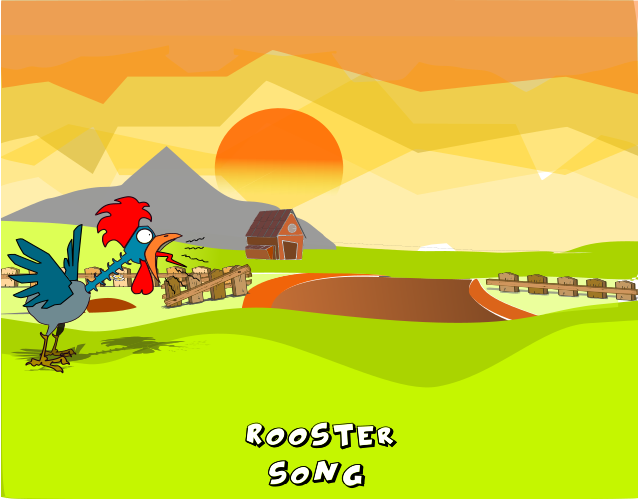
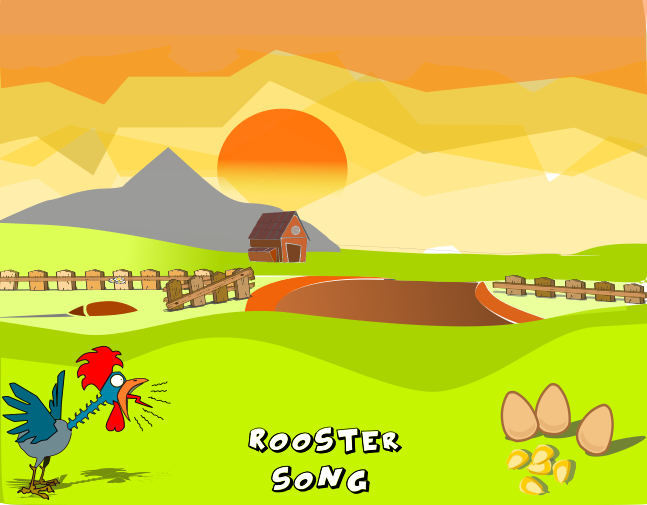
Insersão das figuras de fases da primeira temporada.

diff --git a/core/src/br/com/chickenroad/screens/screenparts/FasesMenu.java b/core/src/br/com/chickenroad/screens/screenparts/FasesMenu.java
@@ -17,10 +17,10 @@ public class FasesMenu {
 	private AssetManager assetManager;
 	private Sound soundRooster;
 	//com varias fases, trocar figuras
-	private String faseList[] = {"fase1.png", "faseBloqueada.png", "faseBloqueada.png", "faseBloqueada.png",
-			"faseBloqueada.png", "faseBloqueada.png", "faseBloqueada.png", "faseBloqueada.png",
-			"faseBloqueada.png", "faseBloqueada.png", "faseBloqueada.png", "faseBloqueada.png",
-			"faseBloqueada.png", "faseBloqueada.png", "faseBloqueada.png"};
+	private String faseList[] = {"fases/fase_101.png", "fases/fase_102.png", "fases/fase_103.png", "fases/fase_104.png",
+			"fases/fase_105.png", "fases/fase_106.png", "fases/fase_107.png", "fases/fase_108.png",
+			"fases/fase_109.png", "fases/fase_110.png", "fases/fase_111.png", "fases/fase_112.png",
+			"fases/fase_113.png", "fases/fase_114.png", "fases/fase_115.png"};
 
 	private ArrayList<Sprite> spriteFaseList;
 
@@ -31,20 +31,20 @@ public class FasesMenu {
 		soundRooster = Gdx.audio.newSound(Gdx.files.internal(Constantes.URL_SOUND_ROOSTER));
 
 				//testando
-		fase_atual = PreferencesUser.getFase();
+		fase_atual = 0;//PreferencesUser.getFase();
 
 		//TODO trocar figura e string
 		spriteFaseList = new ArrayList<Sprite>();
 
 		int cont = 0;
-		int spriteFaseListHeight = Constantes.WORLD_HEIGHT/2+90;
+		int spriteFaseListHeight = Constantes.WORLD_HEIGHT/2+110;
 
 		String picture;
 		for(int i=0;i<faseList.length;i++){
 			if(i <= fase_atual)
 				picture = faseList[0];    //Aqui ser� apontada a fase correta. Por enquanto, ser� a figura de fase 1 para todas as fases ABERTAS.
 			else
-				picture = "faseBloqueada.png";
+				picture = "fases/fase_bloqueada.png";
 
 			Sprite sprite = new Sprite(new Texture(picture));
 			spriteFaseList.add(sprite);
@@ -54,10 +54,10 @@ public class FasesMenu {
 				if(cont != 0) spriteFaseListHeight -= 110;
 				
 				cont = 0;
-				spriteFaseList.get(i).setPosition(Constantes.WORLD_WIDTH/2 - 240, spriteFaseListHeight);
+				spriteFaseList.get(i).setPosition(Constantes.WORLD_WIDTH/2 - 245, spriteFaseListHeight);
 			}else {
 				++cont;
-				spriteFaseList.get(i).setPosition(Constantes.WORLD_WIDTH/2- 240 +105*cont, spriteFaseListHeight);
+				spriteFaseList.get(i).setPosition(Constantes.WORLD_WIDTH/2- 245 +105*cont, spriteFaseListHeight);
 			}
 		}
 	}
